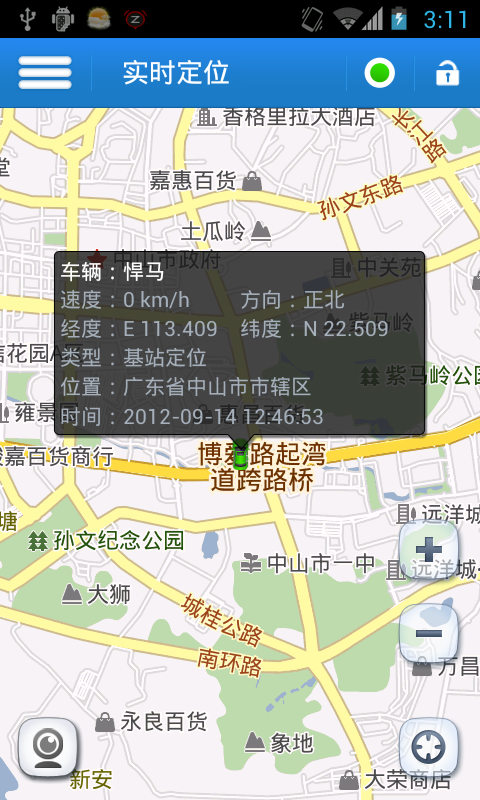
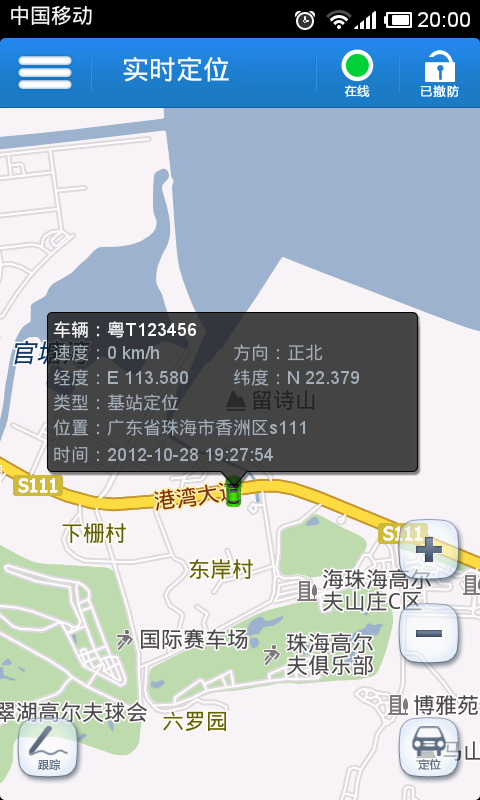
-- KJJ -- android下载页，分隔符替换，终端截图替换
git-svn-id: http://www.ichebao.net/svn/acb/trunk@585 fbfde4e3-4bc3-4d81-a63b-7b332075e0cf

diff --git a/apps/uweb/templates/android.html b/apps/uweb/templates/android.html
@@ -68,13 +68,13 @@
 						<br/>
 						<p class="">主要内容：</p>
 						<ul class="descText">
-							<li>1。实时定位：通过短信和网络都可以实时定位到车辆的位置。</li>
-							<li>2。轨迹查询：车主查询指定时间段内车辆的路线行踪信息， 在平台页面上通过点线的形式显示出来的行踪轨迹图， 该功能便于查看车辆的活动范围和路线轨迹。</li>
-							<li>3。设防/撤防：终端设防时将开启非法移动功能，当终端撤防时，自动关闭功能。</li>
-							<li>4。终端参数：设定终端的各类参数，例如：车主手机号、振动报警频率，上报频率等。</li>
-							<li>5。短信告警设置：车主选择是否接受告警和提醒信息。</li>
-							<li>6。告警查询：车主在平台上查询车辆指定时间段内的非法移动、低电、SOS告警等信息。得到查询结果之后，车主点击位置可以查看具体的位置信息。</li>
-							<li>7。个人信息设置：车主可以对个人的信息如:手机号、邮箱及密码等进行修改设置。</li>
+							<li>1、实时定位：通过短信和网络都可以实时定位到车辆的位置。</li>
+							<li>2、轨迹查询：车主查询指定时间段内车辆的路线行踪信息， 在平台页面上通过点线的形式显示出来的行踪轨迹图， 该功能便于查看车辆的活动范围和路线轨迹。</li>
+							<li>3、设防/撤防：终端设防时将开启非法移动功能，当终端撤防时，自动关闭功能。</li>
+							<li>4、终端参数：设定终端的各类参数，例如：车主手机号、振动报警频率，上报频率等。</li>
+							<li>5、短信告警设置：车主选择是否接受告警和提醒信息。</li>
+							<li>6、告警查询：车主在平台上查询车辆指定时间段内的非法移动、低电、SOS告警等信息。得到查询结果之后，车主点击位置可以查看具体的位置信息。</li>
+							<li>7、个人信息设置：车主可以对个人的信息如:手机号、邮箱及密码等进行修改设置。</li>
 						</ul>
 					</div>
 					<!--图片展示-->
